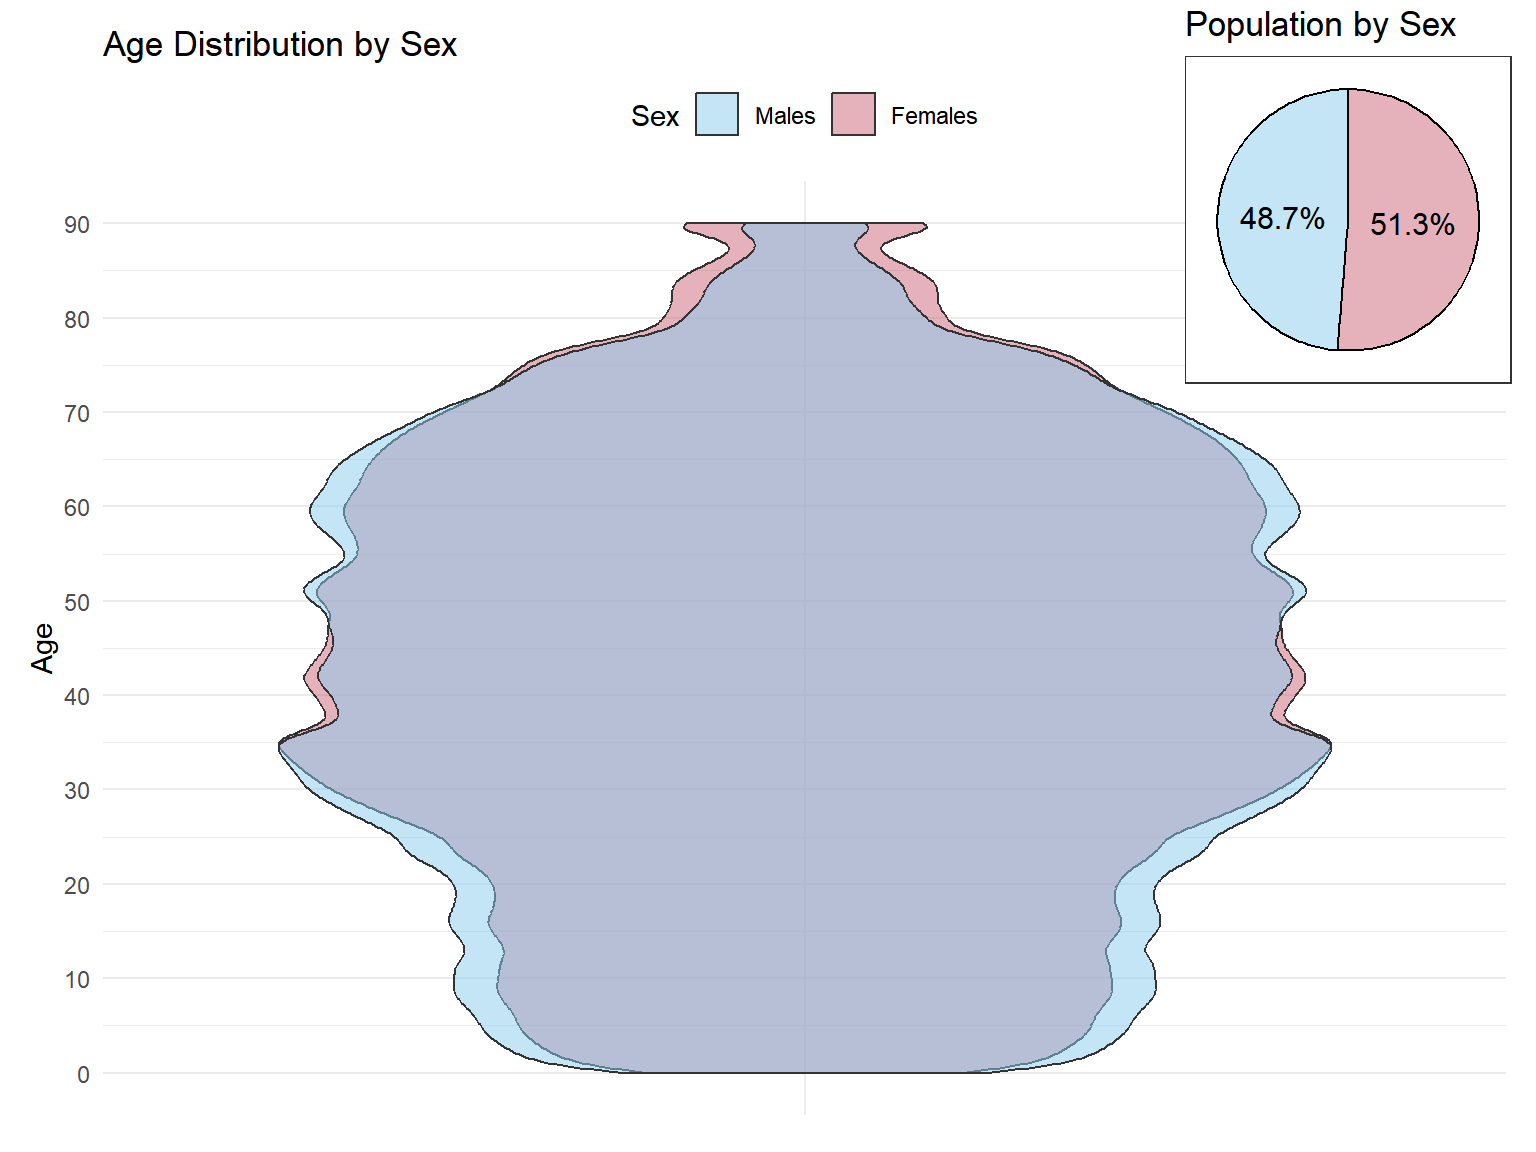
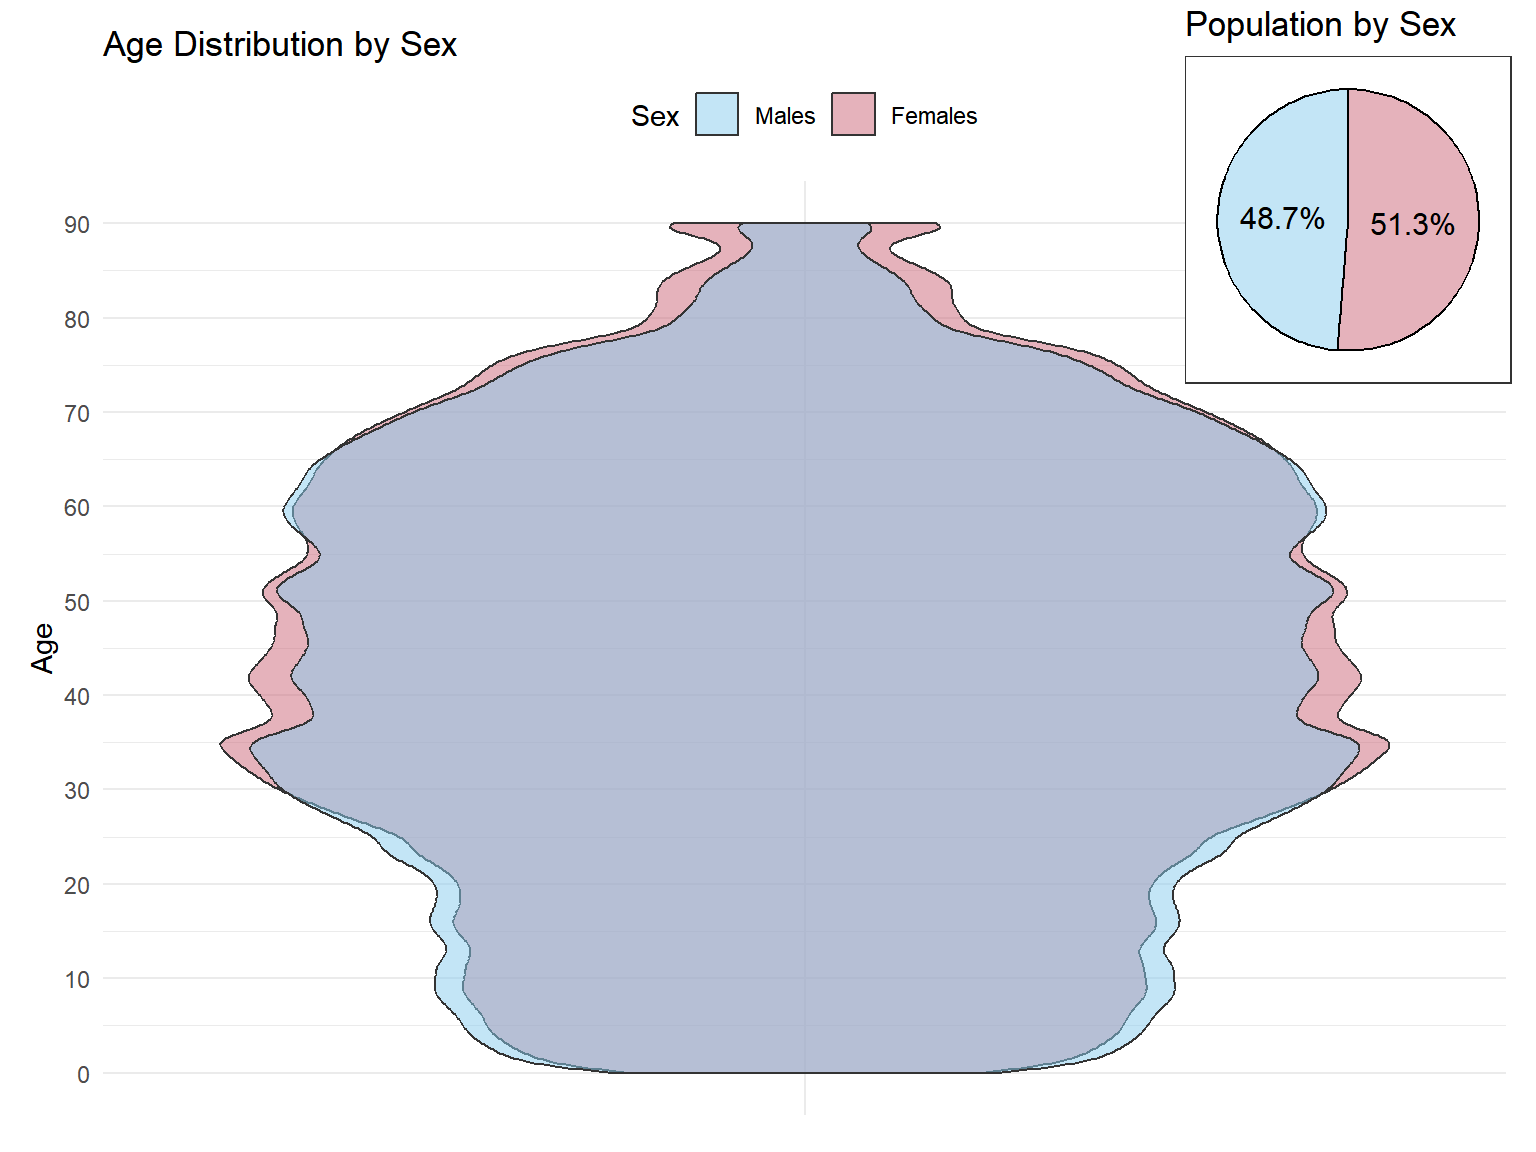
edit

diff --git a/_site/Take-home_Ex/Take-home_Ex01/Take-home_Ex01.html b/_site/Take-home_Ex/Take-home_Ex01/Take-home_Ex01.html
@@ -292,7 +292,7 @@ pre > code.sourceCode > span > a:first-child::before { text-decoration: underlin
     <div>
     <div class="quarto-title-meta-heading">Modified</div>
     <div class="quarto-title-meta-contents">
-      <p class="date-modified">May 4, 2025</p>
+      <p class="date-modified">May 6, 2025</p>
     </div>
   </div>
     
@@ -1766,7 +1766,8 @@ Code
 <ul>
 <li>The next section prepares for adding labels to the pie chart. The label position (<em>ypos</em>) was calculated using cumulative percentages <em>cumsum(Pct_Sex) - Pct_Sex / 2</em> since <em>coord_polar(“y”)</em> will be used to create the pie chart.</li>
 </ul>
-<p>In next part, the dataset was prepared to visualise <strong>Age</strong> distributions by <strong>Sex</strong>:</p>
+<p>The next part of the code is for calculating the gender ratio. Violin plots are normalised to 1 by default so this ratio is needed to adjust the <strong>Male</strong> plot to be slightly smaller than the <strong>Female</strong> plot.</p>
+<p>In the third part, the dataset was prepared to visualise <strong>Age</strong> distributions by <strong>Sex</strong>:</p>
 <ul>
 <li>The dataset <em>sg_data</em> was grouped by <strong>Age</strong> and <strong>Sex</strong>, then summarised using <em>sum(Pop)</em> to get the population count for each <strong>Age-Sex</strong> group.</li>
 <li>The resulting grouped data <em>demography_sex_age</em> was expanded into individual-level observations using <em>uncount(weights = Pop)</em>.
@@ -1832,11 +1833,17 @@ Code
 </table>
 </div>
 <div class="sourceCode cell-code" id="cb30"><pre class="sourceCode r code-with-copy"><code class="sourceCode r"><span id="cb30-1"><a href="#cb30-1" aria-hidden="true" tabindex="-1"></a><span class="co"># Second Part</span></span>
-<span id="cb30-2"><a href="#cb30-2" aria-hidden="true" tabindex="-1"></a>demography_sex_age <span class="ot">&lt;-</span> sg_data <span class="sc">%&gt;%</span></span>
-<span id="cb30-3"><a href="#cb30-3" aria-hidden="true" tabindex="-1"></a>  <span class="fu">group_by</span>(Age, Sex) <span class="sc">%&gt;%</span></span>
-<span id="cb30-4"><a href="#cb30-4" aria-hidden="true" tabindex="-1"></a>  <span class="fu">summarise</span>(<span class="at">Pop =</span> <span class="fu">sum</span>(Pop))</span>
-<span id="cb30-5"><a href="#cb30-5" aria-hidden="true" tabindex="-1"></a></span>
-<span id="cb30-6"><a href="#cb30-6" aria-hidden="true" tabindex="-1"></a><span class="fu">kable</span>(<span class="fu">head</span>(demography_sex_age, <span class="dv">10</span>))</span></code><button title="Copy to Clipboard" class="code-copy-button"><i class="bi"></i></button></pre></div>
+<span id="cb30-2"><a href="#cb30-2" aria-hidden="true" tabindex="-1"></a>males_pct <span class="ot">&lt;-</span> pct_total_by_sex<span class="sc">$</span>Pct_Sex[pct_total_by_sex<span class="sc">$</span>Sex <span class="sc">==</span> <span class="st">"Males"</span>]</span>
+<span id="cb30-3"><a href="#cb30-3" aria-hidden="true" tabindex="-1"></a>females_pct <span class="ot">&lt;-</span> pct_total_by_sex<span class="sc">$</span>Pct_Sex[pct_total_by_sex<span class="sc">$</span>Sex <span class="sc">==</span> <span class="st">"Females"</span>]</span>
+<span id="cb30-4"><a href="#cb30-4" aria-hidden="true" tabindex="-1"></a></span>
+<span id="cb30-5"><a href="#cb30-5" aria-hidden="true" tabindex="-1"></a>male_female_ratio <span class="ot">&lt;-</span> males_pct <span class="sc">/</span> females_pct</span>
+<span id="cb30-6"><a href="#cb30-6" aria-hidden="true" tabindex="-1"></a></span>
+<span id="cb30-7"><a href="#cb30-7" aria-hidden="true" tabindex="-1"></a><span class="co"># Third Part</span></span>
+<span id="cb30-8"><a href="#cb30-8" aria-hidden="true" tabindex="-1"></a>demography_sex_age <span class="ot">&lt;-</span> sg_data <span class="sc">%&gt;%</span></span>
+<span id="cb30-9"><a href="#cb30-9" aria-hidden="true" tabindex="-1"></a>  <span class="fu">group_by</span>(Age, Sex) <span class="sc">%&gt;%</span></span>
+<span id="cb30-10"><a href="#cb30-10" aria-hidden="true" tabindex="-1"></a>  <span class="fu">summarise</span>(<span class="at">Pop =</span> <span class="fu">sum</span>(Pop))</span>
+<span id="cb30-11"><a href="#cb30-11" aria-hidden="true" tabindex="-1"></a></span>
+<span id="cb30-12"><a href="#cb30-12" aria-hidden="true" tabindex="-1"></a><span class="fu">kable</span>(<span class="fu">head</span>(demography_sex_age, <span class="dv">10</span>))</span></code><button title="Copy to Clipboard" class="code-copy-button"><i class="bi"></i></button></pre></div>
 <div class="cell-output-display">
 <table class="caption-top table table-sm table-striped small">
 <thead>
@@ -1919,7 +1926,7 @@ Code
 <li>A <em>ggplot()</em> object was initialised to serve as the base plot that the violin plots will be overlaid on.</li>
 <li><em>geom_violin()</em> was used twice, once for each <strong>Sex</strong>, with shared x-axis <em>“All”</em> to overlay both distributions.</li>
 <li><em>alpha = 0.5</em> was set to add transparency, allowing both violins to be visible when they overlap.</li>
-<li><em>scale = “area”</em> ensures the violins are scaled proportionally to the size of their age groups.</li>
+<li><em>scale = “area”</em> ensures the violins are scaled proportionally to the size of their age groups and <em>width = </em> is used to scale the plots according to their population ratios.</li>
 <li>A custom fill colour was set for each sex using <em>scale_fill_manual()</em>, and <em>breaks = c(“Males”, “Females”)</em> ensures the legend appears with Males being first.</li>
 <li><em>theme(axis.text.x = element_blank())</em> hides the x-axis label since both violins are plotted at a shared position <em>“All”</em>.</li>
 <li><em>labs()</em> was used to remove the x-axis text and label the y-axis.</li>
@@ -1954,10 +1961,10 @@ Code
 <div class="sourceCode cell-code" id="cb32"><pre class="sourceCode r code-with-copy"><code class="sourceCode r"><span id="cb32-1"><a href="#cb32-1" aria-hidden="true" tabindex="-1"></a>p1 <span class="ot">&lt;-</span> <span class="fu">ggplot</span>() <span class="sc">+</span></span>
 <span id="cb32-2"><a href="#cb32-2" aria-hidden="true" tabindex="-1"></a>  <span class="fu">geom_violin</span>(<span class="at">data =</span> demography_females, </span>
 <span id="cb32-3"><a href="#cb32-3" aria-hidden="true" tabindex="-1"></a>              <span class="fu">aes</span>(<span class="at">x =</span> <span class="st">"All"</span>, <span class="at">y =</span> Age, <span class="at">fill =</span> <span class="st">"Females"</span>), </span>
-<span id="cb32-4"><a href="#cb32-4" aria-hidden="true" tabindex="-1"></a>              <span class="at">scale =</span> <span class="st">"area"</span>, <span class="at">alpha =</span> <span class="fl">0.5</span>) <span class="sc">+</span></span>
+<span id="cb32-4"><a href="#cb32-4" aria-hidden="true" tabindex="-1"></a>              <span class="at">scale =</span> <span class="st">"area"</span>, <span class="at">alpha =</span> <span class="fl">0.5</span>, <span class="at">width =</span> <span class="dv">1</span>) <span class="sc">+</span></span>
 <span id="cb32-5"><a href="#cb32-5" aria-hidden="true" tabindex="-1"></a>  <span class="fu">geom_violin</span>(<span class="at">data =</span> demography_males, </span>
 <span id="cb32-6"><a href="#cb32-6" aria-hidden="true" tabindex="-1"></a>              <span class="fu">aes</span>(<span class="at">x =</span> <span class="st">"All"</span>, <span class="at">y =</span> Age, <span class="at">fill =</span> <span class="st">"Males"</span>), </span>
-<span id="cb32-7"><a href="#cb32-7" aria-hidden="true" tabindex="-1"></a>              <span class="at">scale =</span> <span class="st">"area"</span>, <span class="at">alpha =</span> <span class="fl">0.5</span>) <span class="sc">+</span></span>
+<span id="cb32-7"><a href="#cb32-7" aria-hidden="true" tabindex="-1"></a>              <span class="at">scale =</span> <span class="st">"area"</span>, <span class="at">alpha =</span> <span class="fl">0.5</span>, <span class="at">width =</span> male_female_ratio) <span class="sc">+</span></span>
 <span id="cb32-8"><a href="#cb32-8" aria-hidden="true" tabindex="-1"></a>  <span class="fu">theme_minimal</span>() <span class="sc">+</span></span>
 <span id="cb32-9"><a href="#cb32-9" aria-hidden="true" tabindex="-1"></a>  <span class="fu">labs</span>(</span>
 <span id="cb32-10"><a href="#cb32-10" aria-hidden="true" tabindex="-1"></a>    <span class="at">x =</span> <span class="cn">NULL</span>,</span>
@@ -2026,19 +2033,19 @@ Insights
 <li>This aligns with Singapore’s national demographic pattern, where <strong>Females</strong> outnumber <strong>Males</strong> slightly due to longer life expectancy.</li>
 </ul>
 </section>
-<section id="population-trends-age-0---35" class="level5">
-<h5 class="anchored" data-anchor-id="population-trends-age-0---35">Population Trends (Age 0 - 35)</h5>
+<section id="population-trends-age-0---30" class="level5">
+<h5 class="anchored" data-anchor-id="population-trends-age-0---30">Population Trends (Age 0 - 30)</h5>
 <ul>
+<li><strong>Males</strong> consistently outnumber <strong>Females</strong> slightly till age 30.</li>
 <li>Population rises gradual from birth to age 8.</li>
-<li>A plateau is observed from ages 9 to 20, followed by another increase towards a population peak at age 35.</li>
-<li><strong>Males</strong> consistently outnumber <strong>Females</strong> slightly in this range.</li>
+<li>A plateau is observed from ages 9 to 20, followed by another increase towards 30.</li>
 </ul>
 </section>
-<section id="population-trends-age-36---60" class="level5">
-<h5 class="anchored" data-anchor-id="population-trends-age-36---60">Population Trends (Age 36 - 60)</h5>
+<section id="population-trends-age-30---60" class="level5">
+<h5 class="anchored" data-anchor-id="population-trends-age-30---60">Population Trends (Age 30 - 60)</h5>
 <ul>
 <li>The segment holds the largest proportion of Singapore’s population.</li>
-<li><strong>Gender</strong> distribution is balanced here.</li>
+<li><strong>Females</strong> outnumber <strong>Males</strong> except for a brief period between age 57-65.</li>
 </ul>
 </section>
 <section id="population-trends-age-above-60" class="level5">
